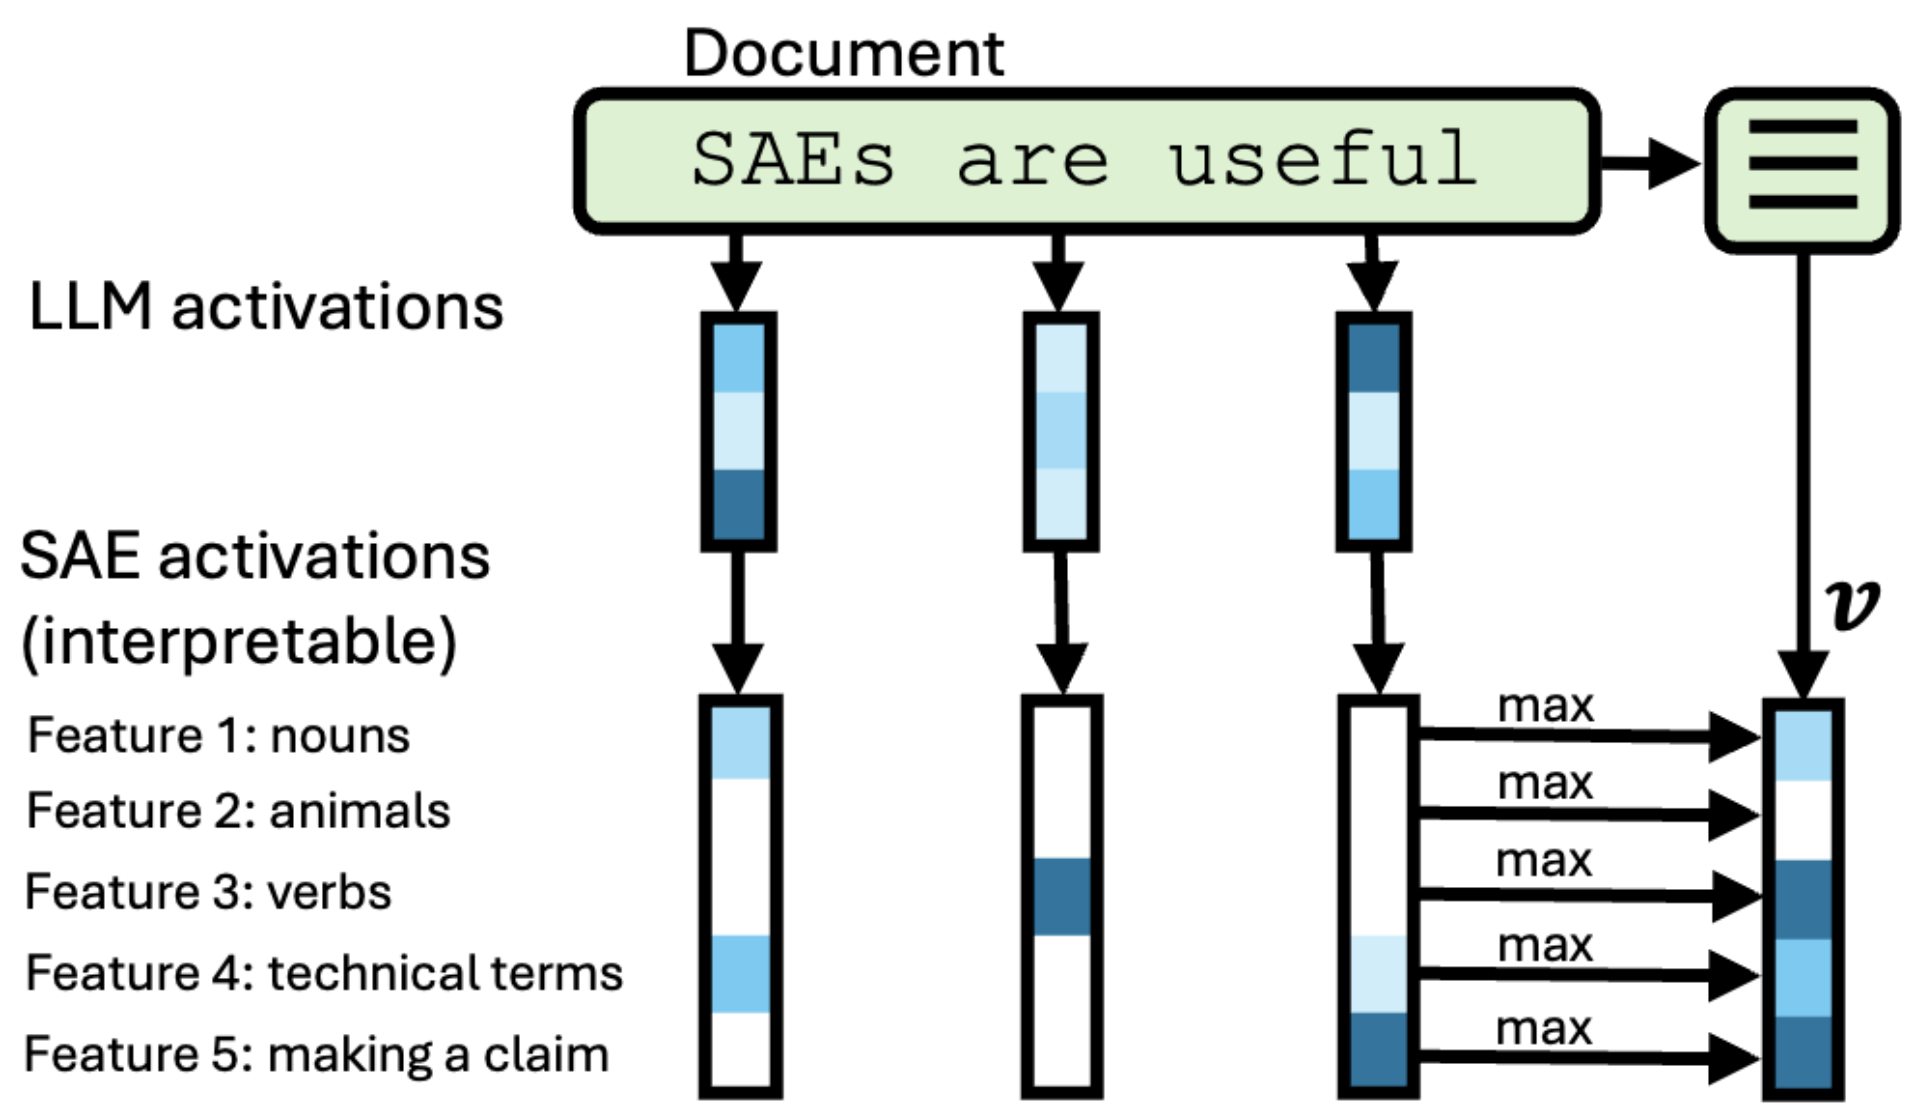
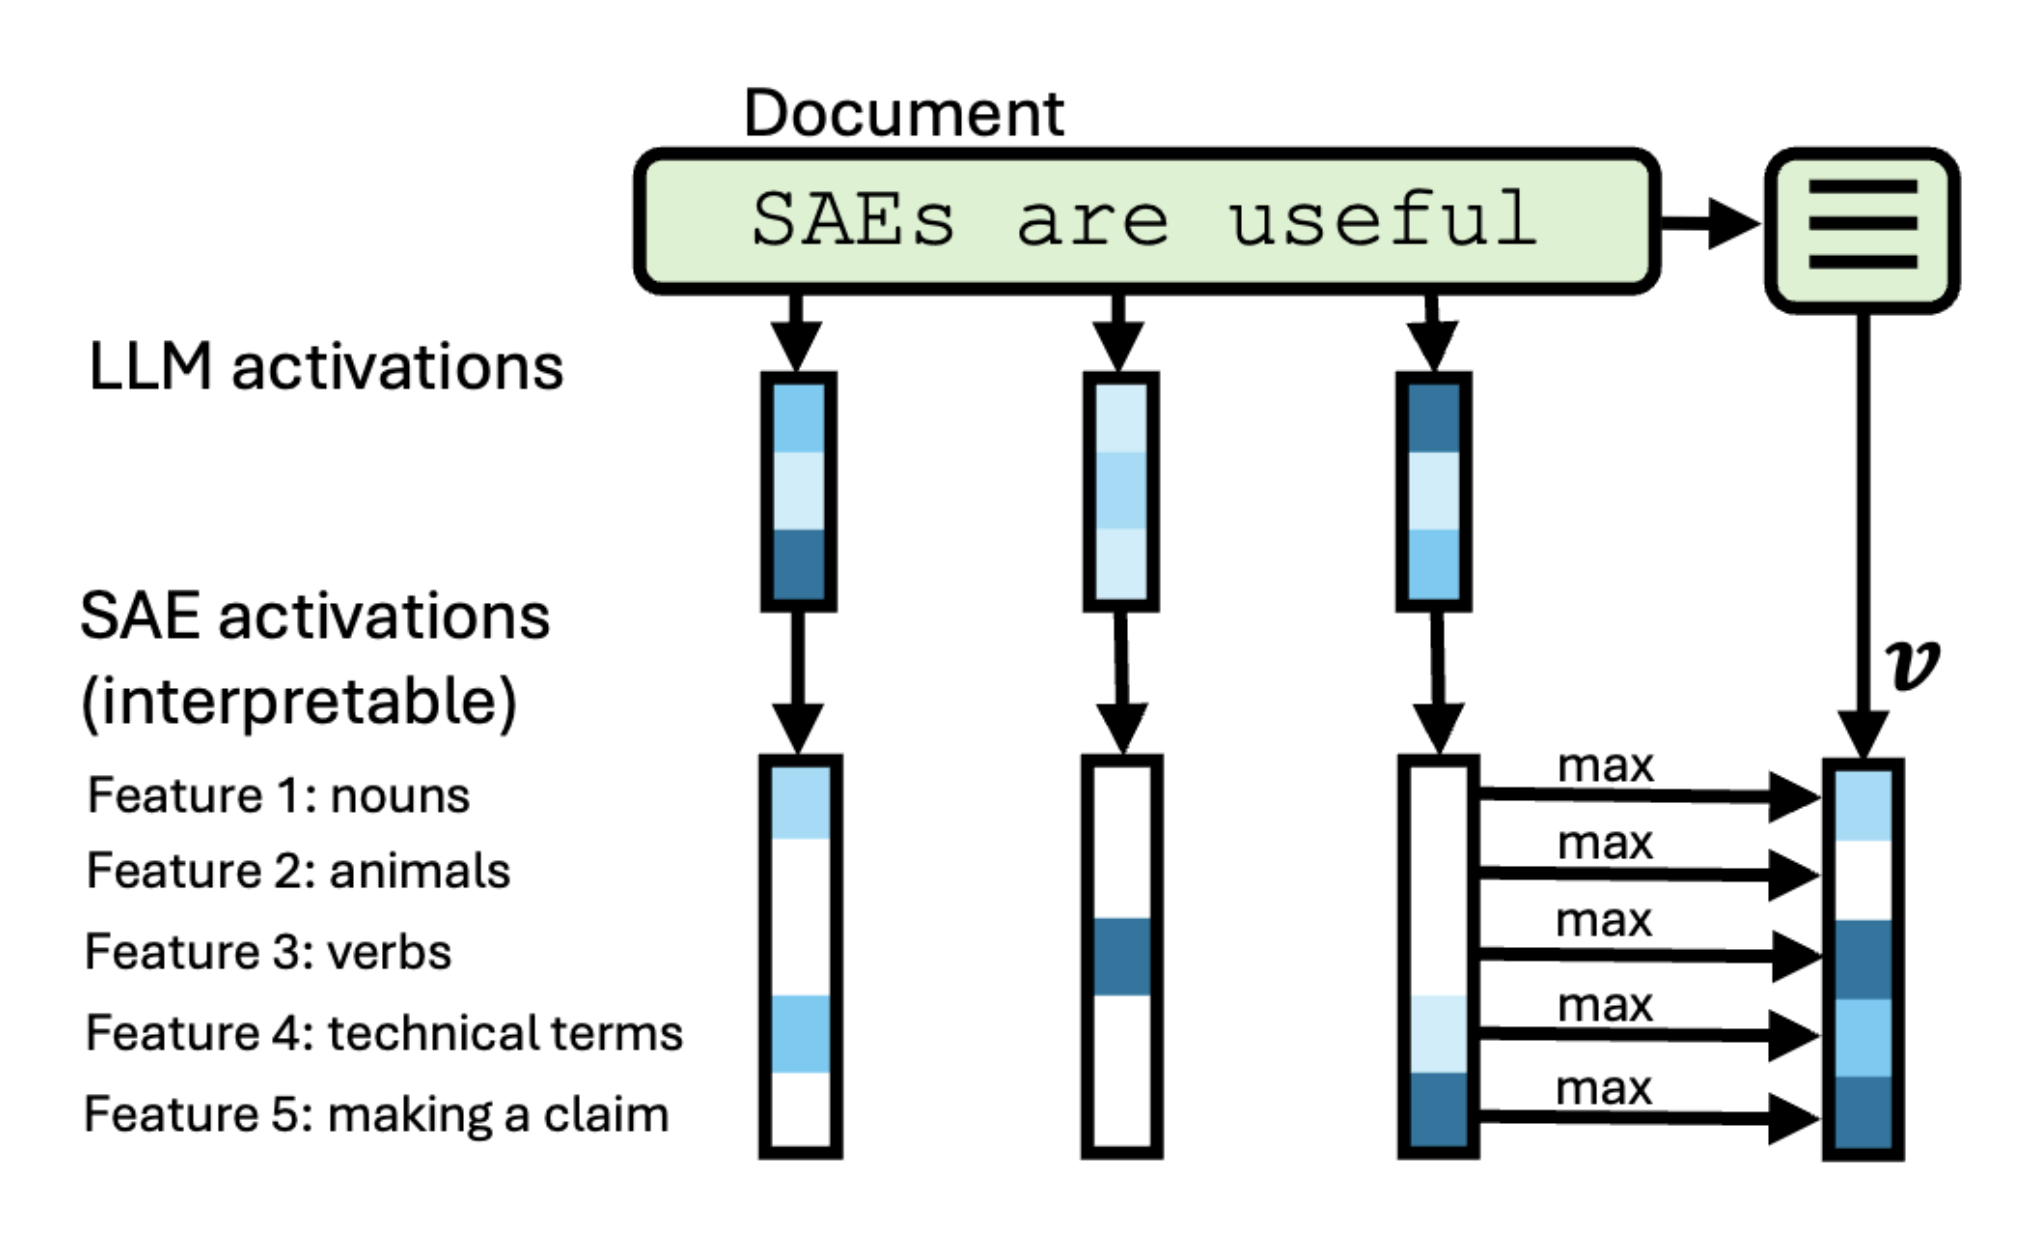
update readme

Changed region(s): [[0.0, 0.0312, 1.0, 1.0], [0.0, 0.4688, 0.2777, 0.5938], [0.0, 0.25, 0.2777, 0.3125]]

diff --git a/README.md b/README.md
@@ -86,7 +86,7 @@ For an API reference, see our `docs` folder.
 
 ## Methodology
 <p align="center">
-  <img src="assets/method.png" alt="Method Overview" width="70%" style="background-color: white; padding: 20px; border-radius: 8px;"/>
+  <img src="assets/method.png" alt="Method Overview" width="70%"/>
 </p>
 
 To embed a document with a sparse autoencoder, we pass the text into a "reader" LLM and compute the latents of a pretrained SAE (i.e. at a specific layer). For each document, we max-pool the latents across tokens to produce a single, high-dimensional, interpretable embedding whose dimensions map to granular concepts like tone, reasoning style, etc.